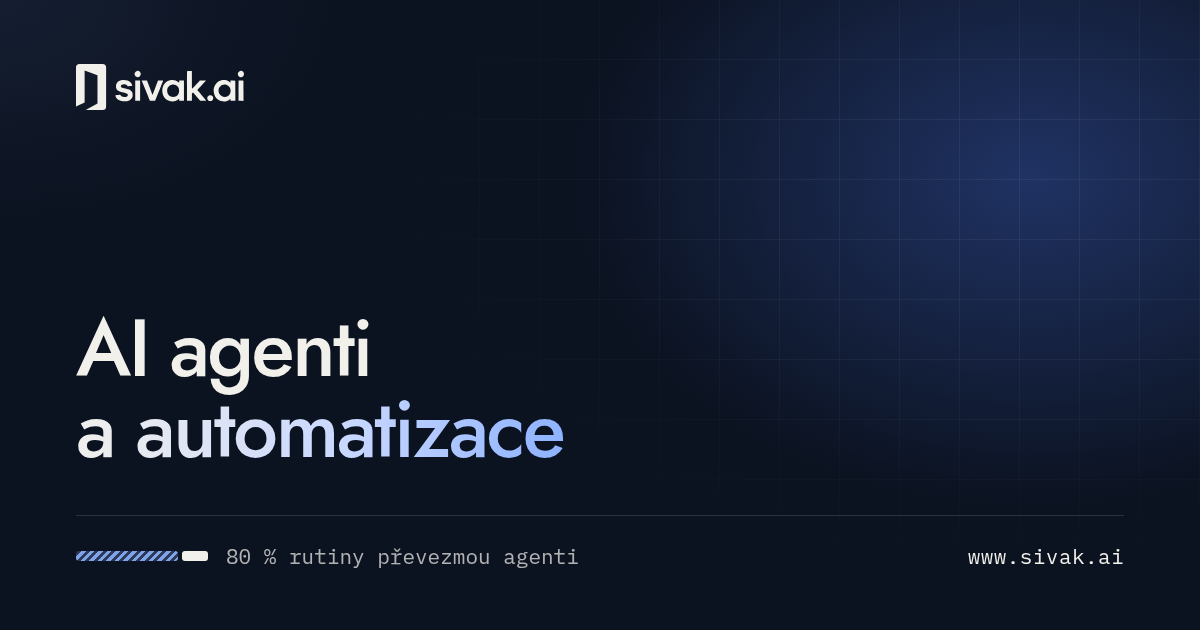
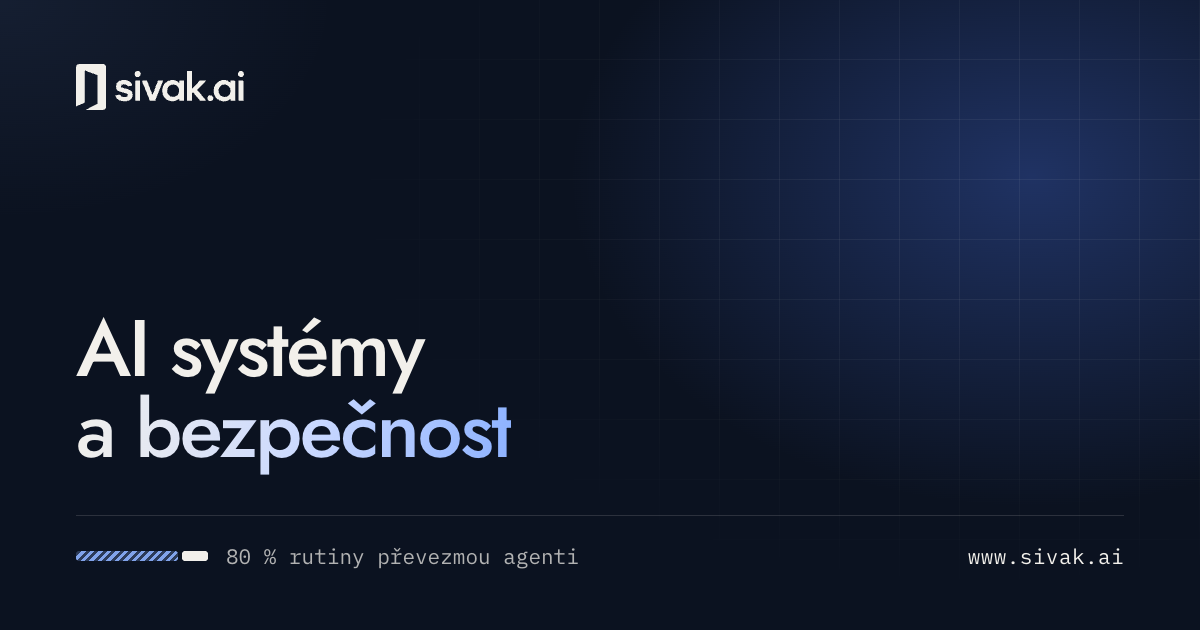
Update homepage hero to AI systems and security (#11)
* Update homepage hero to AI systems and security

* Fix hero line splits and align site slogan after review

---------

Changed region(s): [[0.0925, 0.5127, 0.4933, 0.754]]

diff --git a/design/og/og-en.html b/design/og/og-en.html
@@ -33,7 +33,7 @@
   <div class="bg"></div><div class="grid"></div>
   <div class="wrap">
     <img class="logo" src="../../public/brand/logo-light.svg" alt="">
-    <h1>AI agents<br><span>and automation</span></h1>
+    <h1>AI systems<br><span>and security</span></h1>
     <div class="foot">
       <div class="ratio"><span class="bar"><i></i><i></i></span>Agents take over 80% of the routine</div>
       <div class="url">www.sivak.ai</div>

diff --git a/design/og/og-cs.html b/design/og/og-cs.html
@@ -33,7 +33,7 @@
   <div class="bg"></div><div class="grid"></div>
   <div class="wrap">
     <img class="logo" src="../../public/brand/logo-light.svg" alt="">
-    <h1>AI agenti<br><span>a automatizace</span></h1>
+    <h1>AI systémy<br><span>a bezpečnost</span></h1>
     <div class="foot">
       <div class="ratio"><span class="bar"><i></i><i></i></span>80 % rutiny převezmou agenti</div>
       <div class="url">www.sivak.ai</div>

diff --git a/design/og/README.md b/design/og/README.md
@@ -5,7 +5,7 @@ LinkedIn, Slack and other apps show when someone shares www.sivak.ai or
 www.sivak.ai/en, `public/og/ai-skoleni.png` is the one for www.sivak.ai/ai-skoleni and
 `public/og/en-ai-training.png` the one for its English twin www.sivak.ai/en/ai-training.
 `src/components/HomePage.astro` and `src/components/landing/TrainingPage.astro` point the page metadata at them.
-When an image changes, bump the `?v=` query on its URL there (the homepage images are at `?v=2`), because
+When an image changes, bump the `?v=` query on its URL there (the homepage images are at `?v=3`), because
 LinkedIn and Slack cache share images by URL.
 
 They are screenshots of `og-cs.html`, `og-en.html`, `og-ai-skoleni.html` and `og-en-ai-training.html` in this folder. To change
